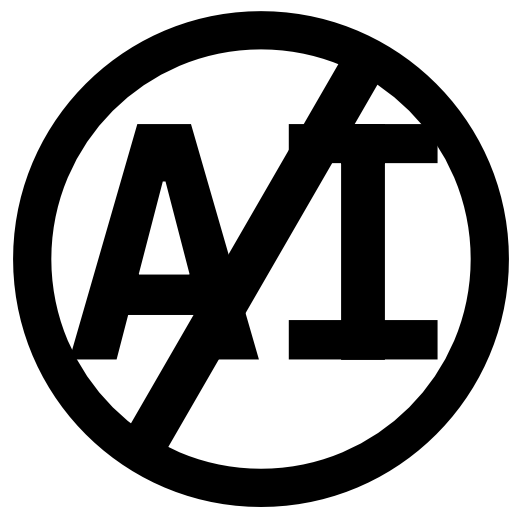
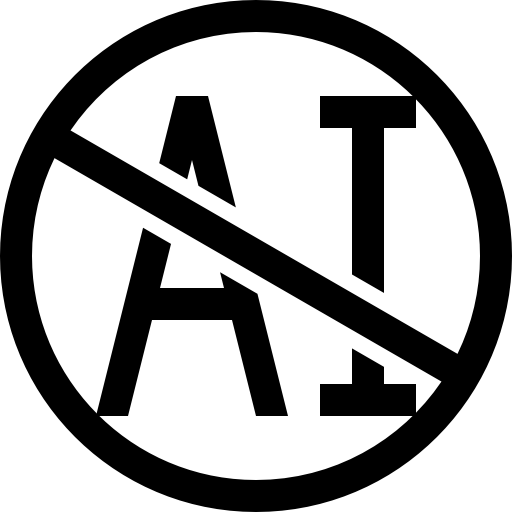
Updated website

diff --git a/index.html b/index.html
@@ -161,10 +161,10 @@
     <!--/////////////////////////////////////////-->
     <div class="main_container">
         <div class="no_ai_container">
-            <img class="no_ai_img" src="img/artist.webp">
+            <img class="no_ai_img" src="img/no_ai.webp">
             <h2>Made by humans</h2>
             <div class="no_ai_text">
-                <p>Fluentwise is hand made by artists and developers. We do not use generative artificial intelligence (AI).</p>
+                <p>Fluentwise does NOT generate any audio, images, or literature using artificial intelligence (AI).</p>
             </div>
         </div>   
     </div>

diff --git a/css/07_no_ai.css b/css/07_no_ai.css
@@ -12,8 +12,7 @@
 }
 
 .no_ai_img {
-    width: 100%;
-     max-width: var(--size-15-512);
+     max-width: var(--size-11-128);
      margin-bottom: var(--size-8-48);
      border-radius: var(--size-5-20);
 }
